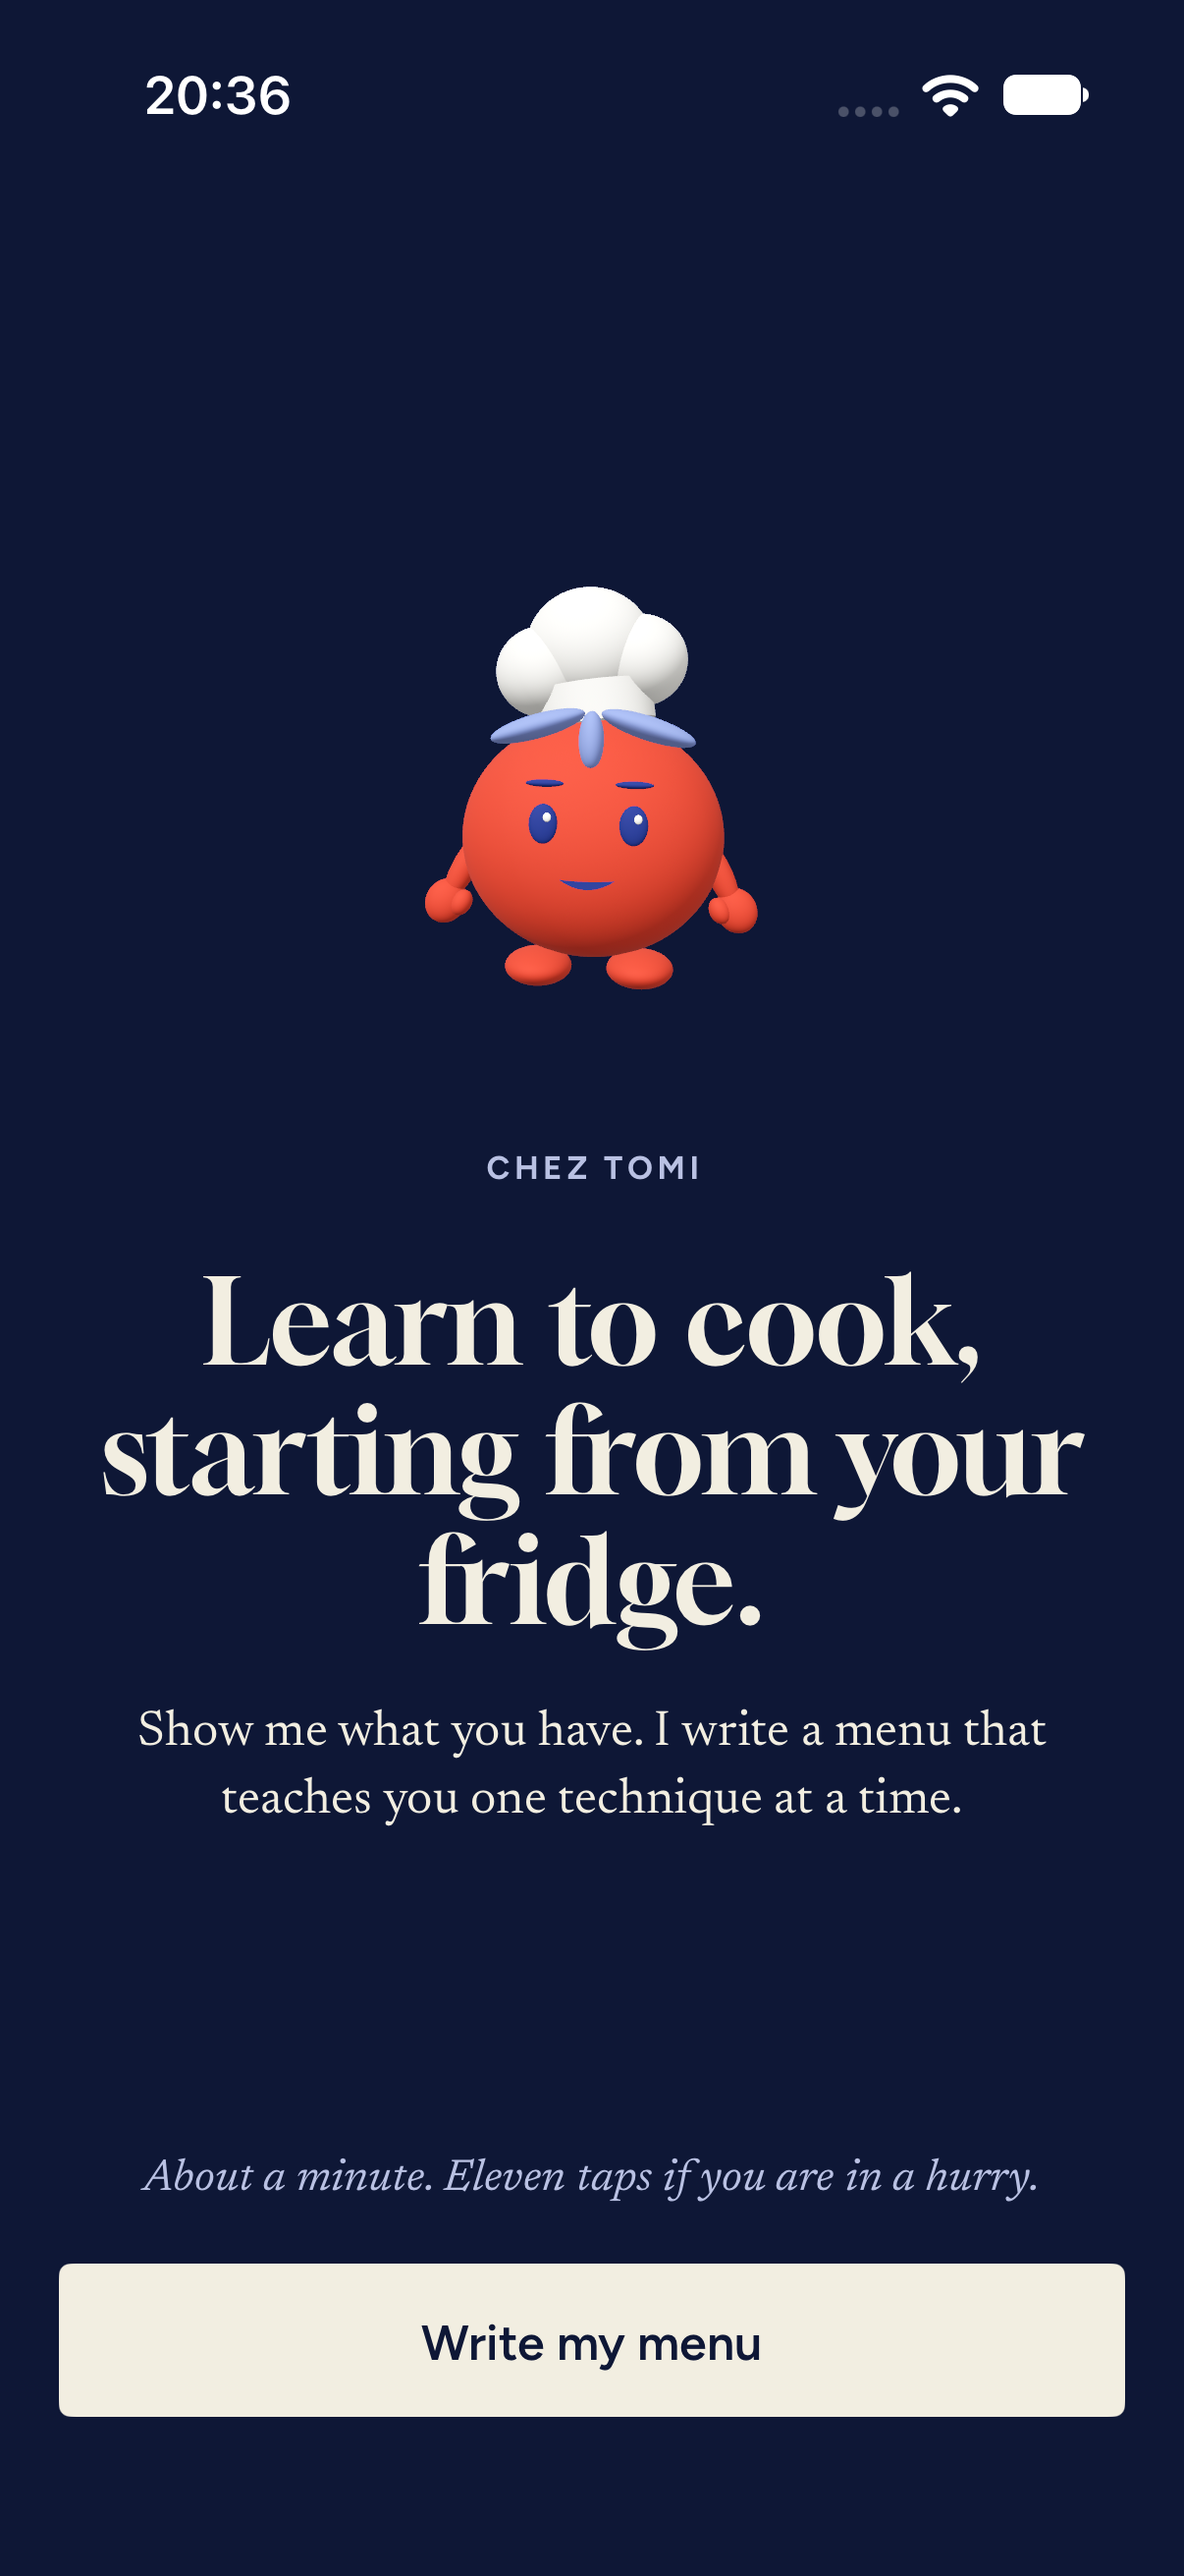
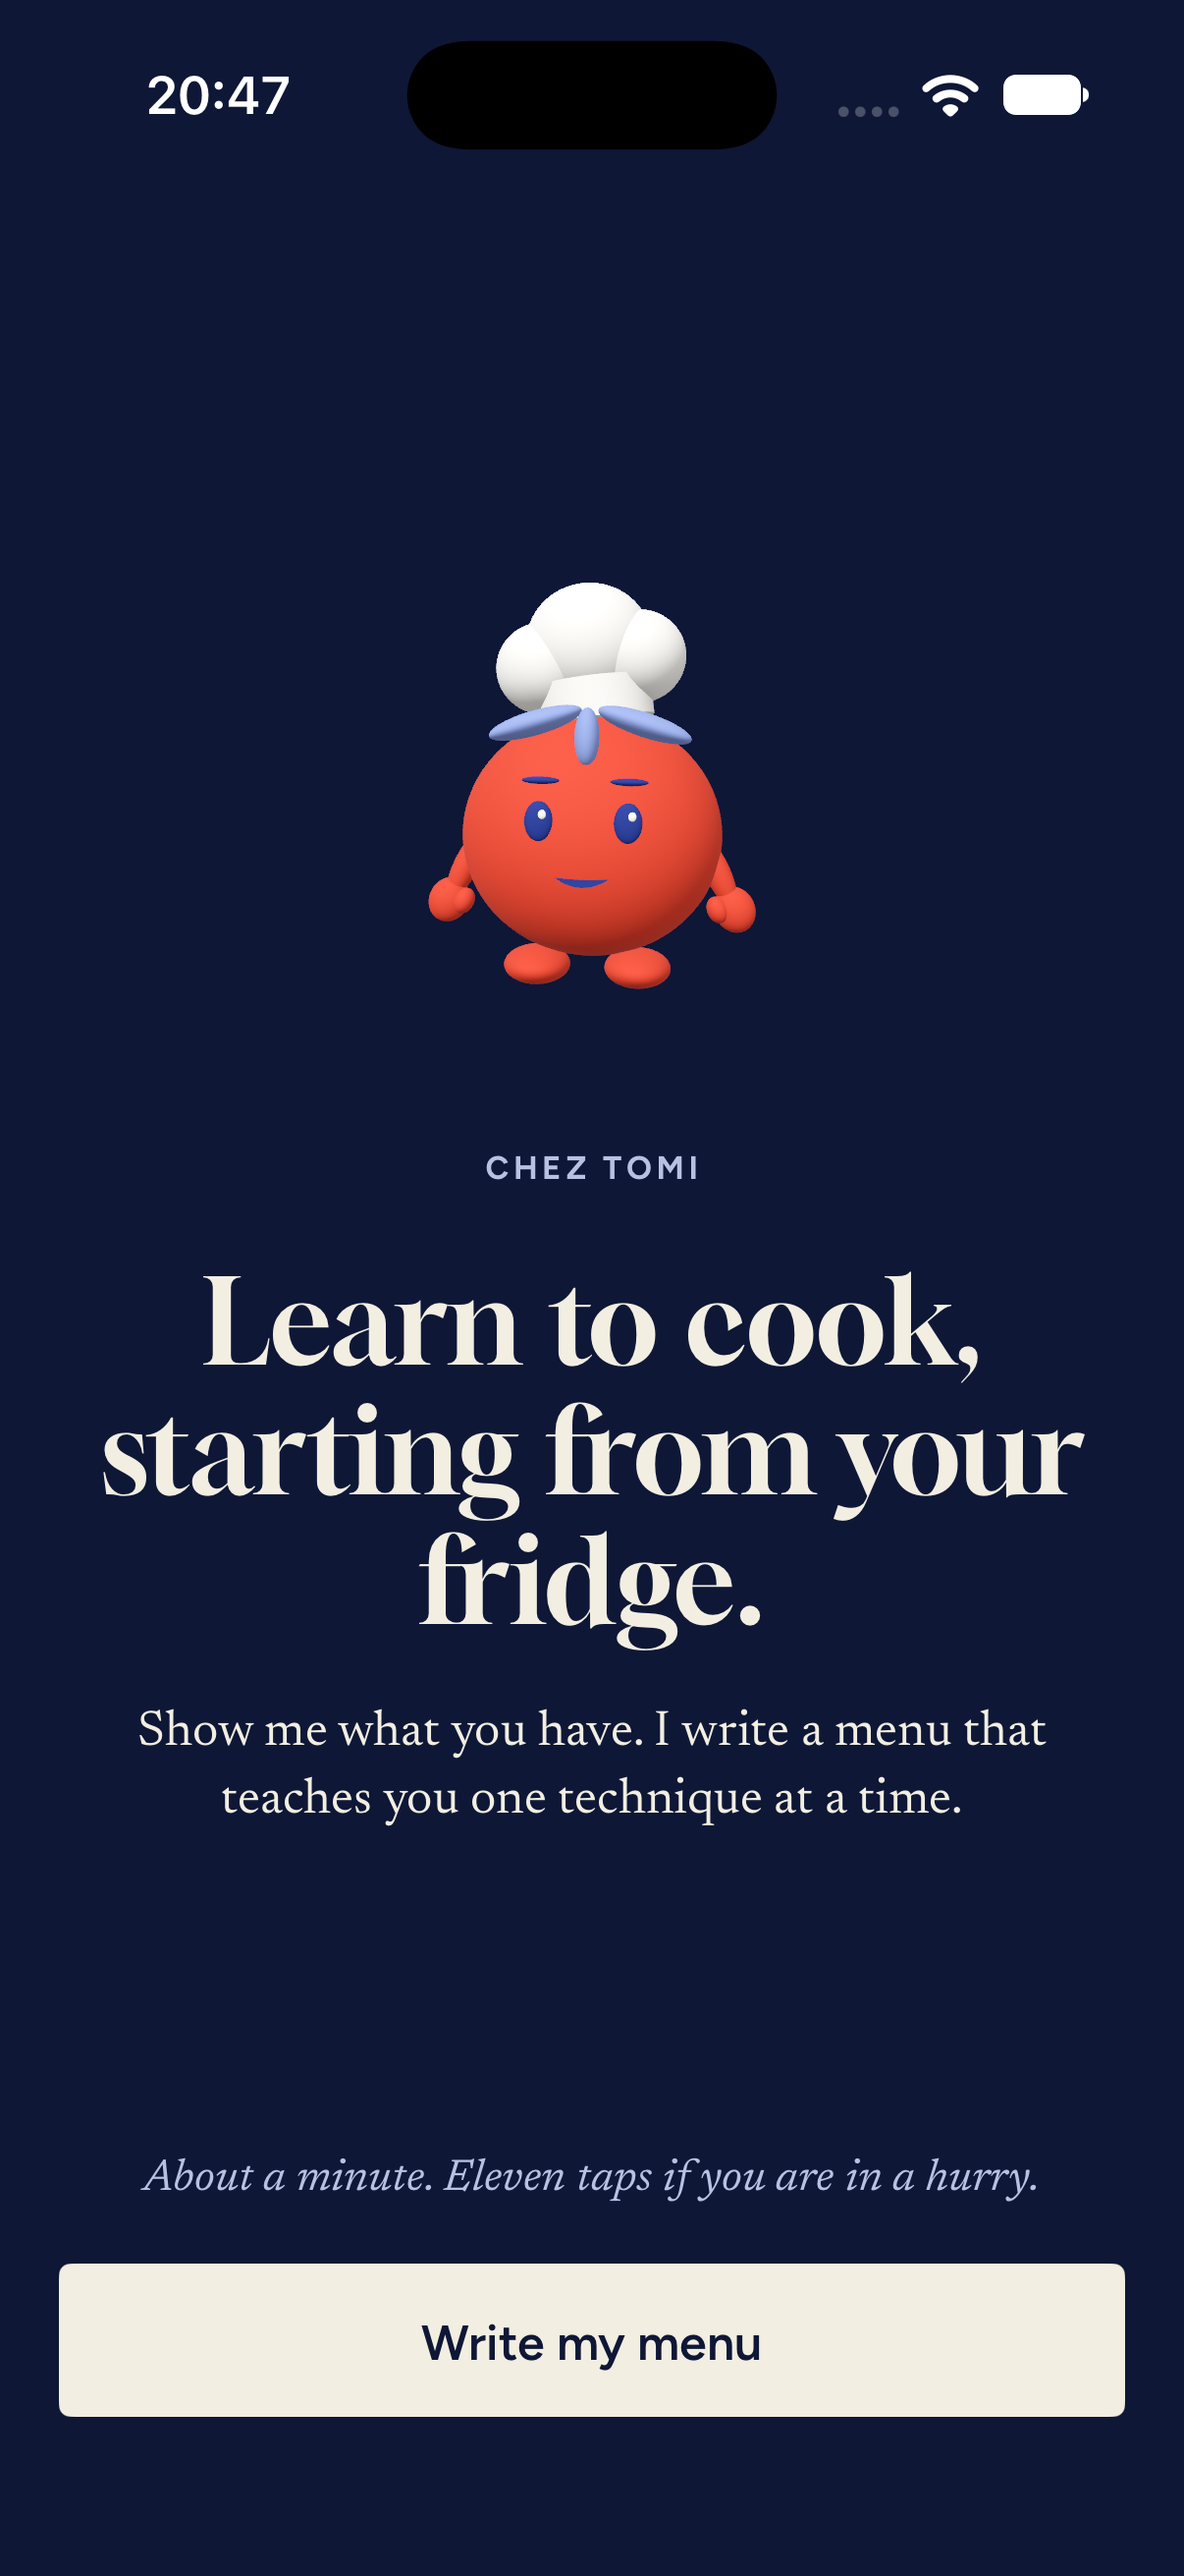
Let the onboarding welcome scroll as one piece at large text (#15)
With the companion on the welcome, the largest text size left the promise
a strip of about half the screen between the companion and the pinned hint
line, and the title was cut after its first line.

The words are now laid out as in the mockup when they fit. When they do
not, the companion, the promise and the hint scroll together and only the
button stays put. A UI test holds the reading area to most of the screen
at the largest text size. The welcome screenshots are recaptured from this
build.

Changed region(s): [[0.3375, 0.0, 0.675, 0.0618], [0.3988, 0.2471, 0.5829, 0.3398], [0.1227, 0.0309, 0.2454, 0.0618]]

diff --git a/TomiUITests/OnboardingLargeTextUITests.swift b/TomiUITests/OnboardingLargeTextUITests.swift
@@ -1,0 +1,21 @@
+import XCTest
+
+/// The welcome of onboarding at the largest text size a cook can choose.
+final class OnboardingLargeTextUITests: XCTestCase {
+    override func setUp() {
+        continueAfterFailure = false
+    }
+
+    /// Only the button stays put. Everything else scrolls, so the promise is not squeezed into a strip.
+    @MainActor
+    func testTheWelcomeKeepsMostOfTheScreenForReading() {
+        let arguments = ["--store-ui-test-file", "--store-start-empty"] + GalleryLayoutUITests.largestTextSize
+        let app = XCUIApplication.launched(arguments)
+        XCTAssertTrue(app.staticTexts["onboarding-welcome-title"].waitForExistence(timeout: 5))
+
+        let reading = app.scrollViews["onboarding-welcome-reading"]
+        XCTAssertTrue(reading.exists)
+        XCTAssertGreaterThan(reading.frame.height, app.frame.height * 0.6)
+        XCTAssertLessThanOrEqual(reading.frame.maxY, app.buttons["onboarding-start"].frame.minY)
+    }
+}

diff --git a/Tomi/Onboarding/OnboardingWelcomeLines.swift b/Tomi/Onboarding/OnboardingWelcomeLines.swift
@@ -1,0 +1,26 @@
+import SwiftUI
+
+/// Everything on the welcome above its button: the promise, then the line that says how long it takes.
+/// Centred, the promise sits in the middle and the line rests on the button, as in the mockup.
+struct OnboardingWelcomeLines: View {
+    let centred: Bool
+
+    var body: some View {
+        VStack(spacing: Spacing.large) {
+            if centred {
+                Spacer()
+            }
+            OnboardingWelcomeText()
+            if centred {
+                Spacer()
+            }
+            Text(.onboardingWelcomeHint)
+                .textStyle(.description)
+        }
+        .frame(maxWidth: .infinity)
+    }
+}
+
+#Preview {
+    OnboardingWelcomeLines(centred: true)
+}

diff --git a/Tomi/Onboarding/OnboardingWelcomeReading.swift b/Tomi/Onboarding/OnboardingWelcomeReading.swift
@@ -1,0 +1,24 @@
+import SwiftUI
+
+/// The words of the welcome, laid out as in the mockup when they fit. When the cook's text size makes
+/// them taller than the screen, they scroll as one piece, so nothing is squeezed or cut.
+struct OnboardingWelcomeReading: View {
+    var body: some View {
+        ViewThatFits(in: .vertical) {
+            OnboardingWelcomeLines(centred: true)
+            ScrollView {
+                OnboardingWelcomeLines(centred: false)
+            }
+            .accessibilityIdentifier("onboarding-welcome-reading")
+        }
+    }
+}
+
+#Preview {
+    OnboardingWelcomeReading()
+}
+
+#Preview("Largest text") {
+    OnboardingWelcomeReading()
+        .dynamicTypeSize(.accessibility5)
+}

diff --git a/Tomi/Onboarding/OnboardingWelcomeText.swift b/Tomi/Onboarding/OnboardingWelcomeText.swift
@@ -3,14 +3,6 @@ import SwiftUI
 /// The companion, the kicker and the promise on the welcome screen.
 struct OnboardingWelcomeText: View {
     var body: some View {
-        ScrollView {
-            column
-        }
-        .defaultScrollAnchor(.center, for: .alignment)
-        .scrollBounceBehavior(.basedOnSize)
-    }
-
-    private var column: some View {
         VStack(spacing: Spacing.large) {
             CompanionSlot(state: .idle, side: MascotSize.companionWelcome)
             Text(.welcomeKicker)

diff --git a/Tomi/Onboarding/OnboardingWelcomeView.swift b/Tomi/Onboarding/OnboardingWelcomeView.swift
@@ -6,9 +6,7 @@ struct OnboardingWelcomeView: View {
 
     var body: some View {
         VStack(spacing: Spacing.large) {
-            OnboardingWelcomeText()
-            Text(.onboardingWelcomeHint)
-                .textStyle(.description)
+            OnboardingWelcomeReading()
             Button(action: start) {
                 Text(.onboardingWelcomeStart)
             }
